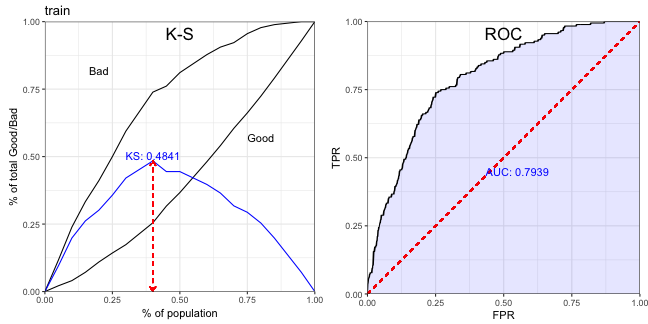
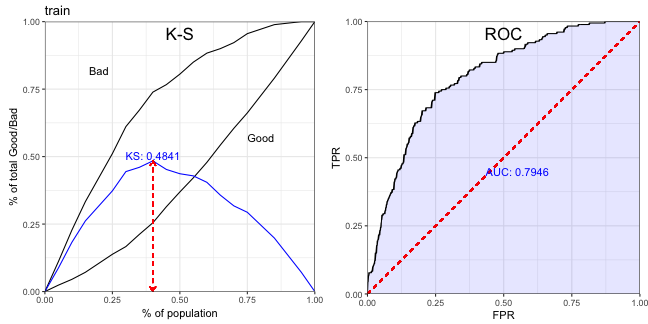
slide_sc

diff --git a/slide/20171115scorecard/index.html b/slide/20171115scorecard/index.html
@@ -448,7 +448,7 @@ ivs[variable=="age.in.years",]
     
       - 分箱停止条件是信息增益率`stop_limit`与最大分箱数 `max_bin_num`，默认值分别为0.1与5，即信息增益率小于10%或者非缺失值分箱数大于5后停止进一步分箱。
 
-.footnote[[*] 极端值：均值上下3倍四分位距以外的值，其中四分位距指上下四分位数之差。]
+.footnote[[*] 极端值：均值上下1.5倍四分位距以外的值，其中四分位距指上下四分位数之差。]
 
 ---
 .pull-left[
@@ -580,6 +580,10 @@ dt_sel2=var_filter(train_woe,y="creditability",return_rm_reason=TRUE)
    &lt;td style="text-align:left;"&gt; iv &amp;lt; 0.02 &lt;/td&gt;
   &lt;/tr&gt;
   &lt;tr&gt;
+   &lt;td style="text-align:left;"&gt; number.of.existing.credits.at.this.bank_woe &lt;/td&gt;
+   &lt;td style="text-align:left;"&gt; iv &amp;lt; 0.02 &lt;/td&gt;
+  &lt;/tr&gt;
+  &lt;tr&gt;
    &lt;td style="text-align:left;"&gt; present.residence.since_woe &lt;/td&gt;
    &lt;td style="text-align:left;"&gt; iv &amp;lt; 0.02 &lt;/td&gt;
   &lt;/tr&gt;
@@ -678,31 +682,31 @@ summary(m2)$coefficients
 
 ```
 ##                                         Estimate Std. Error z value
-## (Intercept)                              -0.7858     0.1037  -7.579
-## other.installment.plans_woe               0.7092     0.4054   1.750
-## age.in.years_woe                          0.7615     0.3214   2.369
-## property_woe                              0.7536     0.3273   2.303
-## personal.status.and.sex_woe               1.1862     0.5174   2.293
-## present.employment.since_woe              0.5980     0.3593   1.664
-## savings.account.and.bonds_woe             0.6963     0.2406   2.894
-## credit.amount_woe                         0.7010     0.2430   2.885
-## purpose_woe                               1.0387     0.2727   3.809
-## credit.history_woe                        0.4320     0.1977   2.185
-## duration.in.month_woe                     0.5926     0.2061   2.875
-## status.of.existing.checking.account_woe   0.5716     0.1303   4.386
+## (Intercept)                              -0.7922     0.1035  -7.654
+## other.installment.plans_woe               0.7347     0.4052   1.813
+## age.in.years_woe                          0.7781     0.3224   2.414
+## property_woe                              0.7742     0.3268   2.369
+## personal.status.and.sex_woe               1.1626     0.5173   2.247
+## present.employment.since_woe              0.5765     0.3593   1.605
+## savings.account.and.bonds_woe             0.7033     0.2409   2.919
+## credit.amount_woe                         0.7123     0.2496   2.853
+## purpose_woe                               1.0612     0.2721   3.901
+## credit.history_woe                        0.4204     0.1964   2.141
+## duration.in.month_woe                     0.5772     0.2111   2.734
+## status.of.existing.checking.account_woe   0.5731     0.1304   4.395
 ##                                          Pr(&gt;|z|)
-## (Intercept)                             3.476e-14
-## other.installment.plans_woe             8.019e-02
-## age.in.years_woe                        1.783e-02
-## property_woe                            2.129e-02
-## personal.status.and.sex_woe             2.187e-02
-## present.employment.since_woe            9.603e-02
-## savings.account.and.bonds_woe           3.804e-03
-## credit.amount_woe                       3.910e-03
-## purpose_woe                             1.394e-04
-## credit.history_woe                      2.890e-02
-## duration.in.month_woe                   4.043e-03
-## status.of.existing.checking.account_woe 1.157e-05
+## (Intercept)                             1.948e-14
+## other.installment.plans_woe             6.978e-02
+## age.in.years_woe                        1.578e-02
+## property_woe                            1.784e-02
+## personal.status.and.sex_woe             2.461e-02
+## present.employment.since_woe            1.086e-01
+## savings.account.and.bonds_woe           3.509e-03
+## credit.amount_woe                       4.326e-03
+## purpose_woe                             9.599e-05
+## credit.history_woe                      3.228e-02
+## duration.in.month_woe                   6.253e-03
+## status.of.existing.checking.account_woe 1.107e-05
 ```
 
 ---
@@ -848,7 +852,7 @@ data.table::rbindlist(card, fill=TRUE)[1:4,1:4]
 ```
 ##                   variable    bin     woe points
 ## 1:              basepoints     NA      NA    441
-## 2: other.installment.plans   bank  0.4836    -25
+## 2: other.installment.plans   bank  0.4836    -26
 ## 3: other.installment.plans stores  0.4595    -24
 ## 4: other.installment.plans   none -0.1212      6
 ```
@@ -868,7 +872,7 @@ str(train_score)
 
 ```
 ## Classes 'data.table' and 'data.frame':	600 obs. of  1 variable:
-##  $ score: num  397 412 416 626 386 360 370 697 395 418 ...
+##  $ score: num  399 414 415 627 386 362 369 697 394 418 ...
 ##  - attr(*, ".internal.selfref")=&lt;externalptr&gt;
 ```
 
@@ -880,18 +884,18 @@ str(train_score2)
 
 ```
 ## Classes 'data.table' and 'data.frame':	600 obs. of  12 variables:
-##  $ other.installment.plans_points            : num  6 6 -25 6 -25 -25 6 6 -25 6 ...
-##  $ age.in.years_points                       : num  -3 -3 -3 11 -3 -29 -3 -3 -3 -29 ...
-##  $ property_points                           : num  25 25 -2 25 -2 -2 -2 25 25 -2 ...
-##  $ personal.status.and.sex_points            : num  -23 14 -23 14 -23 -23 14 14 12 -23 ...
-##  $ present.employment.since_points           : num  -19 17 10 -1 -1 -1 -19 -1 -1 -19 ...
-##  $ savings.account.and.bonds_points          : num  -14 -14 -7 38 -7 -14 -14 38 -14 -14 ...
-##  $ credit.amount_points                      : num  18 -20 18 -6 18 18 18 18 -6 18 ...
-##  $ purpose_points                            : num  -21 -21 -21 31 -21 60 -21 31 -21 -21 ...
-##  $ credit.history_points                     : num  -3 -3 -3 23 -3 -35 -3 23 -3 -3 ...
-##  $ duration.in.month_points                  : num  15 -5 56 -5 -5 -5 -22 56 15 15 ...
+##  $ other.installment.plans_points            : num  6 6 -26 6 -26 -26 6 6 -26 6 ...
+##  $ age.in.years_points                       : num  -3 -3 -3 11 -3 -30 -3 -3 -3 -30 ...
+##  $ property_points                           : num  26 26 -2 26 -2 -2 -2 26 26 -2 ...
+##  $ personal.status.and.sex_points            : num  -22 14 -22 14 -22 -22 14 14 12 -22 ...
+##  $ present.employment.since_points           : num  -18 16 10 -1 -1 -1 -18 -1 -1 -18 ...
+##  $ savings.account.and.bonds_points          : num  -14 -14 -7 39 -7 -14 -14 39 -14 -14 ...
+##  $ credit.amount_points                      : num  18 -18 18 -6 18 18 18 18 -6 18 ...
+##  $ purpose_points                            : num  -21 -21 -21 31 -21 62 -21 31 -21 -21 ...
+##  $ credit.history_points                     : num  -3 -3 -3 22 -3 -34 -3 22 -3 -3 ...
+##  $ duration.in.month_points                  : num  14 -5 55 -5 -5 -5 -24 55 14 14 ...
 ##  $ status.of.existing.checking.account_points: num  -25 -25 -25 49 17 -25 -25 49 -25 49 ...
-##  $ score                                     : num  397 412 416 626 386 360 370 697 395 418 ...
+##  $ score                                     : num  399 414 415 627 386 362 369 697 394 418 ...
 ##  - attr(*, ".internal.selfref")=&lt;externalptr&gt;
 ```
 
@@ -918,85 +922,85 @@ str(train_score2)
  &lt;/thead&gt;
 &lt;tbody&gt;
   &lt;tr&gt;
-   &lt;td style="text-align:left;"&gt; [100,300) &lt;/td&gt;
-   &lt;td style="text-align:right;"&gt; 0.0350 &lt;/td&gt;
-   &lt;td style="text-align:right;"&gt; 0.0475 &lt;/td&gt;
-   &lt;td style="text-align:right;"&gt; -0.0125 &lt;/td&gt;
-   &lt;td style="text-align:right;"&gt; -0.3054 &lt;/td&gt;
-   &lt;td style="text-align:right;"&gt; 0.0038 &lt;/td&gt;
-   &lt;td style="text-align:right;"&gt; 0.0169 &lt;/td&gt;
+   &lt;td style="text-align:left;"&gt; [150,300) &lt;/td&gt;
+   &lt;td style="text-align:right;"&gt; 0.0383 &lt;/td&gt;
+   &lt;td style="text-align:right;"&gt; 0.0400 &lt;/td&gt;
+   &lt;td style="text-align:right;"&gt; -0.0017 &lt;/td&gt;
+   &lt;td style="text-align:right;"&gt; -0.0426 &lt;/td&gt;
+   &lt;td style="text-align:right;"&gt; 0.0001 &lt;/td&gt;
+   &lt;td style="text-align:right;"&gt; 0.0116 &lt;/td&gt;
   &lt;/tr&gt;
   &lt;tr&gt;
    &lt;td style="text-align:left;"&gt; [300,350) &lt;/td&gt;
-   &lt;td style="text-align:right;"&gt; 0.0683 &lt;/td&gt;
-   &lt;td style="text-align:right;"&gt; 0.0725 &lt;/td&gt;
-   &lt;td style="text-align:right;"&gt; -0.0042 &lt;/td&gt;
-   &lt;td style="text-align:right;"&gt; -0.0592 &lt;/td&gt;
-   &lt;td style="text-align:right;"&gt; 0.0002 &lt;/td&gt;
-   &lt;td style="text-align:right;"&gt; 0.0169 &lt;/td&gt;
+   &lt;td style="text-align:right;"&gt; 0.0700 &lt;/td&gt;
+   &lt;td style="text-align:right;"&gt; 0.0750 &lt;/td&gt;
+   &lt;td style="text-align:right;"&gt; -0.0050 &lt;/td&gt;
+   &lt;td style="text-align:right;"&gt; -0.0690 &lt;/td&gt;
+   &lt;td style="text-align:right;"&gt; 0.0003 &lt;/td&gt;
+   &lt;td style="text-align:right;"&gt; 0.0116 &lt;/td&gt;
   &lt;/tr&gt;
   &lt;tr&gt;
    &lt;td style="text-align:left;"&gt; [350,400) &lt;/td&gt;
-   &lt;td style="text-align:right;"&gt; 0.1633 &lt;/td&gt;
-   &lt;td style="text-align:right;"&gt; 0.1650 &lt;/td&gt;
-   &lt;td style="text-align:right;"&gt; -0.0017 &lt;/td&gt;
-   &lt;td style="text-align:right;"&gt; -0.0102 &lt;/td&gt;
-   &lt;td style="text-align:right;"&gt; 0.0000 &lt;/td&gt;
-   &lt;td style="text-align:right;"&gt; 0.0169 &lt;/td&gt;
+   &lt;td style="text-align:right;"&gt; 0.1567 &lt;/td&gt;
+   &lt;td style="text-align:right;"&gt; 0.1625 &lt;/td&gt;
+   &lt;td style="text-align:right;"&gt; -0.0058 &lt;/td&gt;
+   &lt;td style="text-align:right;"&gt; -0.0366 &lt;/td&gt;
+   &lt;td style="text-align:right;"&gt; 0.0002 &lt;/td&gt;
+   &lt;td style="text-align:right;"&gt; 0.0116 &lt;/td&gt;
   &lt;/tr&gt;
   &lt;tr&gt;
    &lt;td style="text-align:left;"&gt; [400,450) &lt;/td&gt;
-   &lt;td style="text-align:right;"&gt; 0.1667 &lt;/td&gt;
-   &lt;td style="text-align:right;"&gt; 0.1825 &lt;/td&gt;
-   &lt;td style="text-align:right;"&gt; -0.0158 &lt;/td&gt;
-   &lt;td style="text-align:right;"&gt; -0.0908 &lt;/td&gt;
-   &lt;td style="text-align:right;"&gt; 0.0014 &lt;/td&gt;
-   &lt;td style="text-align:right;"&gt; 0.0169 &lt;/td&gt;
+   &lt;td style="text-align:right;"&gt; 0.1733 &lt;/td&gt;
+   &lt;td style="text-align:right;"&gt; 0.1925 &lt;/td&gt;
+   &lt;td style="text-align:right;"&gt; -0.0192 &lt;/td&gt;
+   &lt;td style="text-align:right;"&gt; -0.1049 &lt;/td&gt;
+   &lt;td style="text-align:right;"&gt; 0.0020 &lt;/td&gt;
+   &lt;td style="text-align:right;"&gt; 0.0116 &lt;/td&gt;
   &lt;/tr&gt;
   &lt;tr&gt;
    &lt;td style="text-align:left;"&gt; [450,500) &lt;/td&gt;
-   &lt;td style="text-align:right;"&gt; 0.1950 &lt;/td&gt;
-   &lt;td style="text-align:right;"&gt; 0.2100 &lt;/td&gt;
-   &lt;td style="text-align:right;"&gt; -0.0150 &lt;/td&gt;
-   &lt;td style="text-align:right;"&gt; -0.0741 &lt;/td&gt;
-   &lt;td style="text-align:right;"&gt; 0.0011 &lt;/td&gt;
-   &lt;td style="text-align:right;"&gt; 0.0169 &lt;/td&gt;
+   &lt;td style="text-align:right;"&gt; 0.1933 &lt;/td&gt;
+   &lt;td style="text-align:right;"&gt; 0.1975 &lt;/td&gt;
+   &lt;td style="text-align:right;"&gt; -0.0042 &lt;/td&gt;
+   &lt;td style="text-align:right;"&gt; -0.0213 &lt;/td&gt;
+   &lt;td style="text-align:right;"&gt; 0.0001 &lt;/td&gt;
+   &lt;td style="text-align:right;"&gt; 0.0116 &lt;/td&gt;
   &lt;/tr&gt;
   &lt;tr&gt;
    &lt;td style="text-align:left;"&gt; [500,550) &lt;/td&gt;
-   &lt;td style="text-align:right;"&gt; 0.1733 &lt;/td&gt;
-   &lt;td style="text-align:right;"&gt; 0.1600 &lt;/td&gt;
-   &lt;td style="text-align:right;"&gt; 0.0133 &lt;/td&gt;
-   &lt;td style="text-align:right;"&gt; 0.0800 &lt;/td&gt;
-   &lt;td style="text-align:right;"&gt; 0.0011 &lt;/td&gt;
-   &lt;td style="text-align:right;"&gt; 0.0169 &lt;/td&gt;
+   &lt;td style="text-align:right;"&gt; 0.1750 &lt;/td&gt;
+   &lt;td style="text-align:right;"&gt; 0.1750 &lt;/td&gt;
+   &lt;td style="text-align:right;"&gt; 0.0000 &lt;/td&gt;
+   &lt;td style="text-align:right;"&gt; 0.0000 &lt;/td&gt;
+   &lt;td style="text-align:right;"&gt; 0.0000 &lt;/td&gt;
+   &lt;td style="text-align:right;"&gt; 0.0116 &lt;/td&gt;
   &lt;/tr&gt;
   &lt;tr&gt;
    &lt;td style="text-align:left;"&gt; [550,600) &lt;/td&gt;
-   &lt;td style="text-align:right;"&gt; 0.1100 &lt;/td&gt;
-   &lt;td style="text-align:right;"&gt; 0.0850 &lt;/td&gt;
-   &lt;td style="text-align:right;"&gt; 0.0250 &lt;/td&gt;
-   &lt;td style="text-align:right;"&gt; 0.2578 &lt;/td&gt;
-   &lt;td style="text-align:right;"&gt; 0.0064 &lt;/td&gt;
-   &lt;td style="text-align:right;"&gt; 0.0169 &lt;/td&gt;
+   &lt;td style="text-align:right;"&gt; 0.1033 &lt;/td&gt;
+   &lt;td style="text-align:right;"&gt; 0.0775 &lt;/td&gt;
+   &lt;td style="text-align:right;"&gt; 0.0258 &lt;/td&gt;
+   &lt;td style="text-align:right;"&gt; 0.2877 &lt;/td&gt;
+   &lt;td style="text-align:right;"&gt; 0.0074 &lt;/td&gt;
+   &lt;td style="text-align:right;"&gt; 0.0116 &lt;/td&gt;
   &lt;/tr&gt;
   &lt;tr&gt;
    &lt;td style="text-align:left;"&gt; [600,650) &lt;/td&gt;
-   &lt;td style="text-align:right;"&gt; 0.0667 &lt;/td&gt;
+   &lt;td style="text-align:right;"&gt; 0.0683 &lt;/td&gt;
    &lt;td style="text-align:right;"&gt; 0.0625 &lt;/td&gt;
-   &lt;td style="text-align:right;"&gt; 0.0042 &lt;/td&gt;
-   &lt;td style="text-align:right;"&gt; 0.0645 &lt;/td&gt;
-   &lt;td style="text-align:right;"&gt; 0.0003 &lt;/td&gt;
-   &lt;td style="text-align:right;"&gt; 0.0169 &lt;/td&gt;
+   &lt;td style="text-align:right;"&gt; 0.0058 &lt;/td&gt;
+   &lt;td style="text-align:right;"&gt; 0.0892 &lt;/td&gt;
+   &lt;td style="text-align:right;"&gt; 0.0005 &lt;/td&gt;
+   &lt;td style="text-align:right;"&gt; 0.0116 &lt;/td&gt;
   &lt;/tr&gt;
   &lt;tr&gt;
    &lt;td style="text-align:left;"&gt; [650,700) &lt;/td&gt;
    &lt;td style="text-align:right;"&gt; 0.0217 &lt;/td&gt;
-   &lt;td style="text-align:right;"&gt; 0.0150 &lt;/td&gt;
-   &lt;td style="text-align:right;"&gt; 0.0067 &lt;/td&gt;
-   &lt;td style="text-align:right;"&gt; 0.3677 &lt;/td&gt;
-   &lt;td style="text-align:right;"&gt; 0.0025 &lt;/td&gt;
-   &lt;td style="text-align:right;"&gt; 0.0169 &lt;/td&gt;
+   &lt;td style="text-align:right;"&gt; 0.0175 &lt;/td&gt;
+   &lt;td style="text-align:right;"&gt; 0.0042 &lt;/td&gt;
+   &lt;td style="text-align:right;"&gt; 0.2136 &lt;/td&gt;
+   &lt;td style="text-align:right;"&gt; 0.0009 &lt;/td&gt;
+   &lt;td style="text-align:right;"&gt; 0.0116 &lt;/td&gt;
   &lt;/tr&gt;
 &lt;/tbody&gt;
 &lt;/table&gt;
@@ -1059,7 +1063,7 @@ psi$psi
 
 ```
 ##    variable    PSI
-## 1:    score 0.0169
+## 1:    score 0.0116
 ```
 ]
 
@@ -1120,8 +1124,8 @@ m2 = eval(m_step$call) # summary(m2)
 
 # performance ------
 # predicted proability
-train_pred = predict(m2, type='response', train_woe)
-test_pred = predict(m2, type='response', test_woe)
+train_pred = predict(m2, train_woe, type='response')
+test_pred = predict(m2, test_woe, type='response')
 
 # ks &amp; roc plot
 perf_eva(train$y, train_pred, title = "train")
